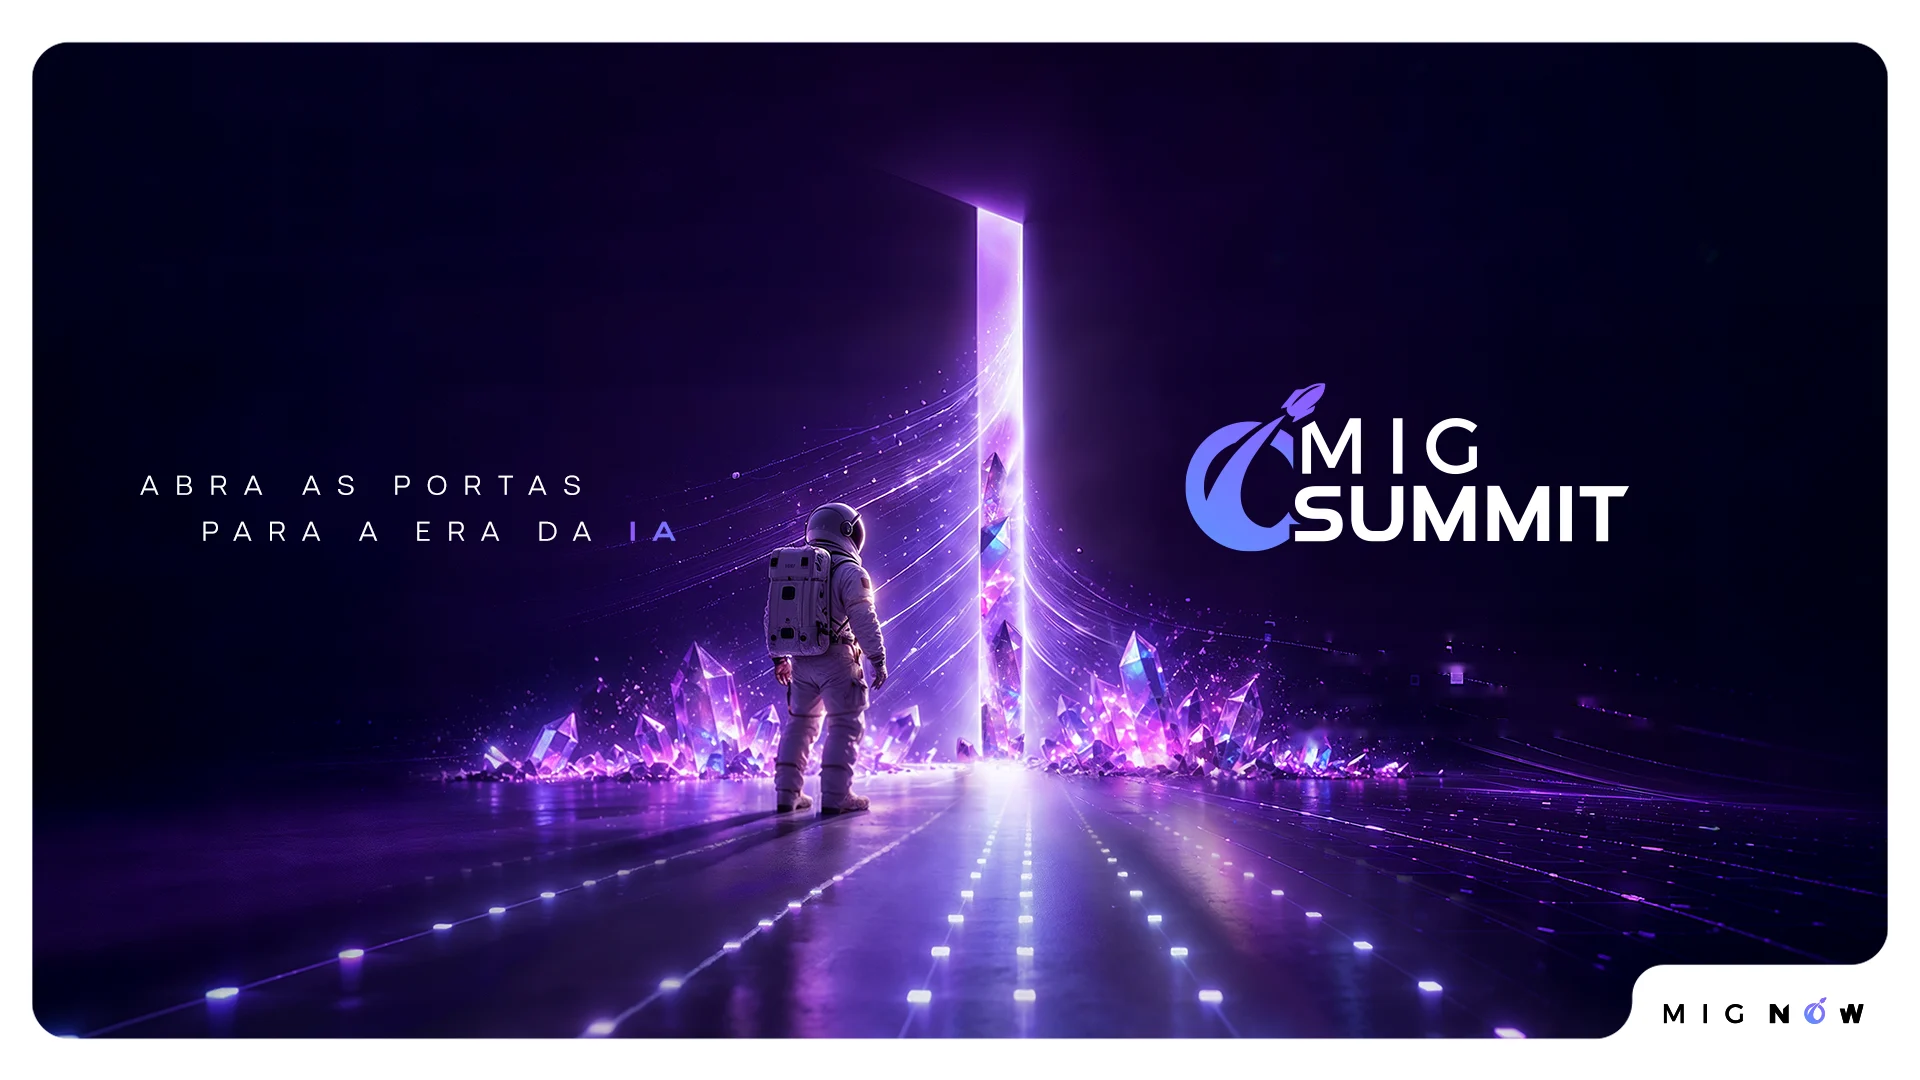
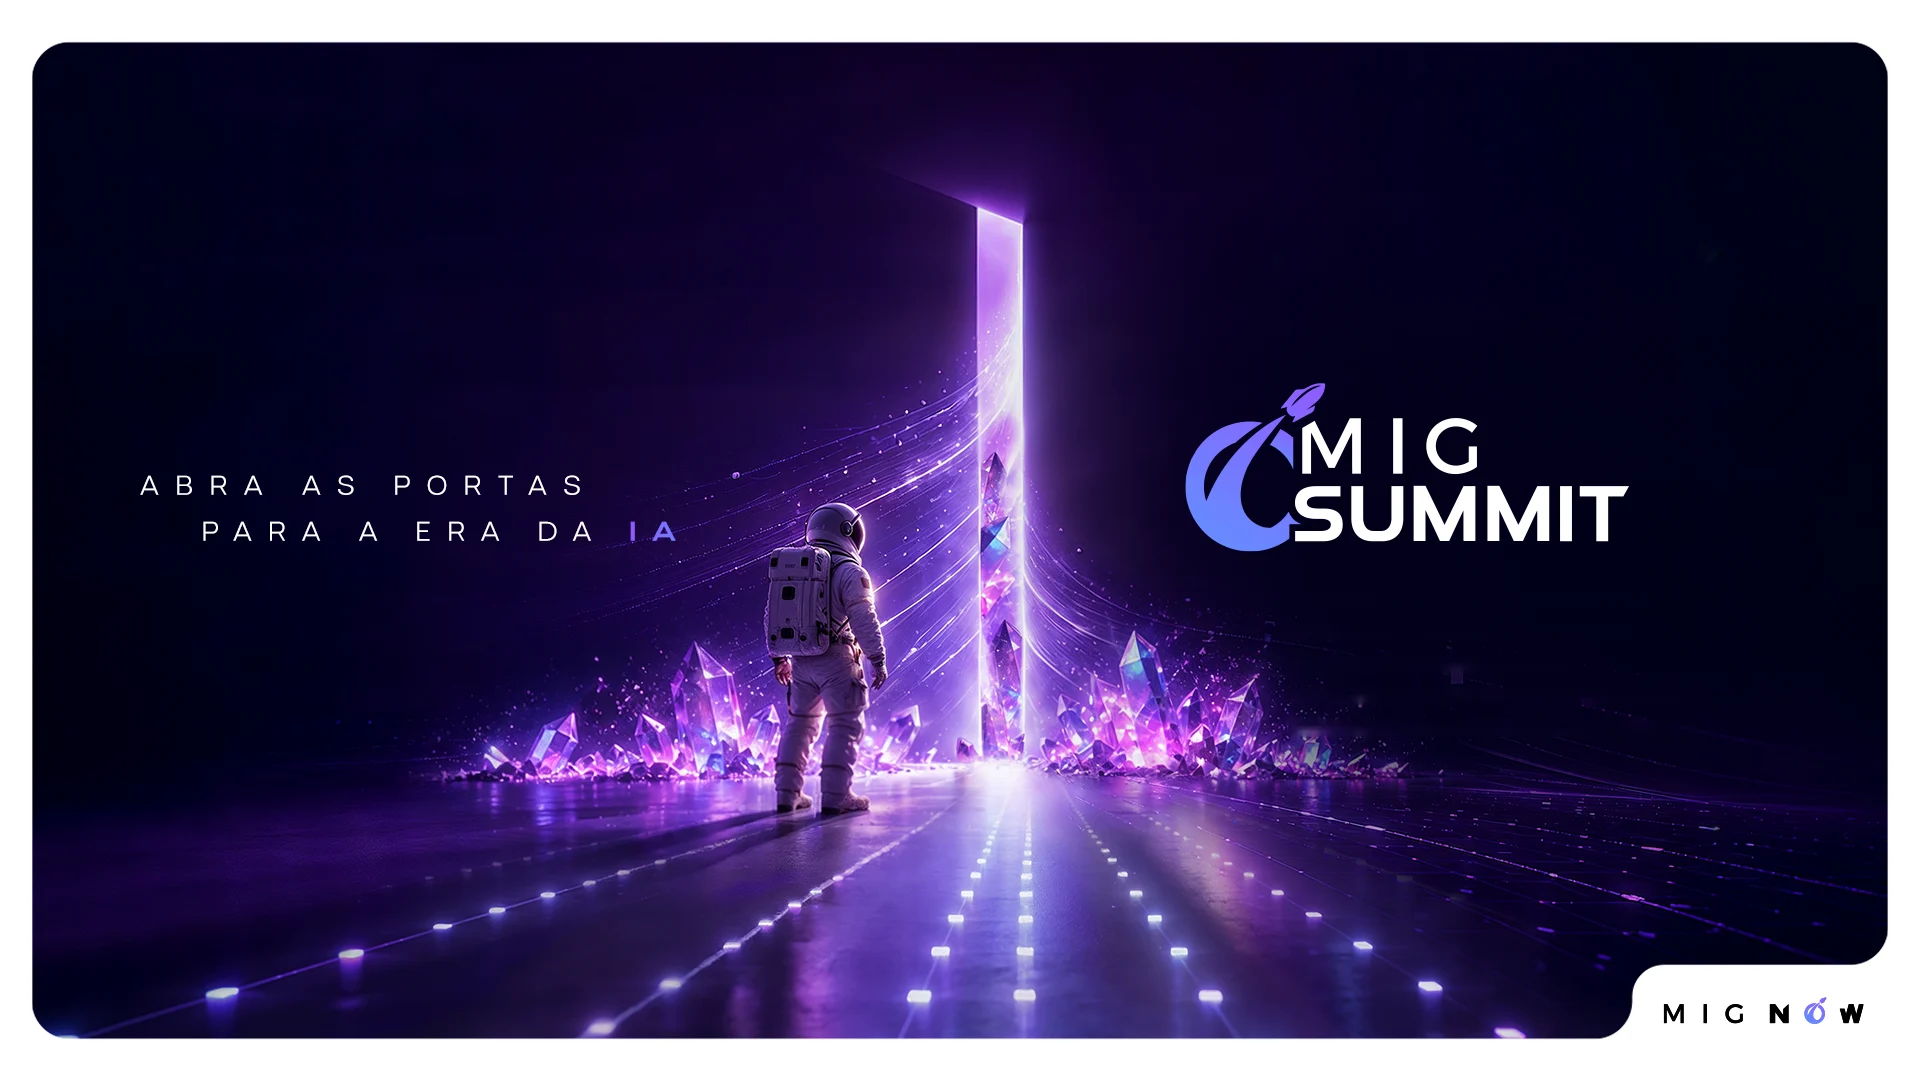
Mobile: abertura compacta e centralizada; KV corrigido
- Banner mobile centralizado (logo, frase, texto, data/contagem e CTA) com
  imagem mais compacta; formulário logo em seguida.
- Barra fixa só aparece depois do banner.
- KV com a metade direita escurecida (versão corrigida no Photoshop).
- Versão dos assets: 2026.10.14-7.

Claude-Session: https://claude.ai/code/session_01AMSrtvrY6Fw4PFgawtPhTF

Changed region(s): [[0.5312, 0.55, 0.875, 0.7944], [0.8125, 0.6417, 0.8438, 0.6722], [0.75, 0.6111, 0.7812, 0.6417]]

diff --git a/index.html b/index.html
@@ -8,12 +8,12 @@
 <meta name="description" content="Explore as possibilidades da IA no ambiente SAP. O MIGSummit, iniciativa da MIGNOW, aproxima a discussão sobre Inteligência Artificial da realidade das empresas que utilizam SAP, com foco em aplicações reais.">
 <meta property="og:title" content="MIGSummit | IA aplicada ao ambiente SAP">
 <meta property="og:description" content="Explore as possibilidades da IA no ambiente SAP. O MIGSummit, iniciativa da MIGNOW, aproxima a discussão sobre Inteligência Artificial da realidade das empresas que utilizam SAP, com foco em aplicações reais.">
-<meta property="og:image" content="assets/img/og-migsummit.jpg?v=2026.10.14-4">
+<meta property="og:image" content="assets/img/og-migsummit.jpg?v=2026.10.14-7">
 <meta property="og:type" content="website">
 <meta name="twitter:card" content="summary_large_image">
-<link rel="preload" as="image" href="assets/img/kv-mobile.webp?v=2026.10.14-4" media="(max-width: 767px)">
-<link rel="preload" as="image" href="assets/img/kv-full.webp?v=2026.10.14-4" imagesrcset="assets/img/kv-full-1200.webp?v=2026.10.14-4 1200w, assets/img/kv-full.webp?v=2026.10.14-4 1920w" imagesizes="100vw" media="(min-width: 768px)">
-<link rel="stylesheet" href="css/migsummit.css?v=2026.10.14-4">
+<link rel="preload" as="image" href="assets/img/kv-mobile.webp?v=2026.10.14-7" media="(max-width: 767px)">
+<link rel="preload" as="image" href="assets/img/kv-full.webp?v=2026.10.14-7" imagesrcset="assets/img/kv-full-1200.webp?v=2026.10.14-7 1200w, assets/img/kv-full.webp?v=2026.10.14-7 1920w" imagesizes="100vw" media="(min-width: 768px)">
+<link rel="stylesheet" href="css/migsummit.css?v=2026.10.14-7">
 </head>
 <body>
 <a class="skip" href="#conteudo">Pular para o conteúdo</a>
@@ -22,8 +22,8 @@
 <header class="navbar" id="navbar" data-theme="light">
   <div class="container navbar__row">
     <a class="navbar__brand" href="#topo" aria-label="MIGSummit, início da página">
-      <span class="brand-lockup"><img src="assets/img/logo-migsummit.png?v=2026.10.14-4" alt="MIGSummit" width="409" height="154"></span>
-      <span class="navbar__by">Realização <img src="assets/img/logo-mignow.png?v=2026.10.14-4" alt="MIGNOW" width="216" height="30"></span>
+      <span class="brand-lockup"><img src="assets/img/logo-migsummit.png?v=2026.10.14-7" alt="MIGSummit" width="409" height="154"></span>
+      <span class="navbar__by">Realização <img src="assets/img/logo-mignow.png?v=2026.10.14-7" alt="MIGNOW" width="216" height="30"></span>
     </a>
     <nav class="navbar__links" aria-label="Principal">
       <a href="#sobre">Sobre o evento</a>
@@ -60,20 +60,24 @@
   <section class="hero" id="topo" data-theme="light" aria-labelledby="hero-title">
     <div class="kv">
       <picture>
-        <source media="(max-width: 767px)" srcset="assets/img/kv-mobile.webp?v=2026.10.14-4" width="680" height="970">
-        <img class="kv__img" src="assets/img/kv-full.webp?v=2026.10.14-4" srcset="assets/img/kv-full-1200.webp?v=2026.10.14-4 1200w, assets/img/kv-full.webp?v=2026.10.14-4 1920w" sizes="100vw" width="1920" height="1080" fetchpriority="high"
+        <source media="(max-width: 767px)" srcset="assets/img/kv-mobile.webp?v=2026.10.14-7" width="680" height="680">
+        <img class="kv__img" src="assets/img/kv-full.webp?v=2026.10.14-7" srcset="assets/img/kv-full-1200.webp?v=2026.10.14-7 1200w, assets/img/kv-full.webp?v=2026.10.14-7 1920w" sizes="100vw" width="1920" height="1080" fetchpriority="high"
            alt="Abra as portas para a era da IA. MIGSummit, uma iniciativa MIGNOW. Astronauta diante de uma porta de luz violeta, entre cristais e um caminho iluminado.">
       </picture>
       <div class="kv__copy">
-        <img class="kv__logo" src="assets/img/logo-migsummit-white.png?v=2026.10.14-4" alt="MIGSummit" width="409" height="154">
+        <img class="kv__logo" src="assets/img/logo-migsummit-white.png?v=2026.10.14-7" alt="MIGSummit" width="409" height="154">
         <h1 class="kv__tagline" id="hero-title">Abra as portas<br> para a era da <span>IA</span></h1>
         <p class="hero__title">Descubra como a Inteligência Artificial está abrindo novas possibilidades no ambiente SAP. Uma jornada de conhecimento, inovação e aplicações reais para os próximos ciclos de transformação.</p>
+        <ul class="kv__chips" aria-label="Data, horário e contagem regressiva">
+          <li><svg viewBox="0 0 24 24" fill="none" stroke="currentColor" stroke-width="1.8" stroke-linecap="round" aria-hidden="true"><rect x="3.5" y="5" width="17" height="15" rx="2.5"/><path d="M3.5 10h17M8 3v4M16 3v4"/></svg>11 nov · 14h às 18h</li>
+          <li class="kv__chip-count" data-countdown><span data-cd-label>Faltam</span> <strong data-cd-num>28</strong> <span data-cd-unit>dias</span></li>
+        </ul>
         <a class="btn-pill is-primary" href="#inscricao" data-cta="hero">
           <span class="btn-pill__inner"><span class="btn-pill__text" data-cta-label>Quero participar</span></span>
           <span class="btn-pill__icon" aria-hidden="true"><span class="btn-pill__circle" data-circle="1"></span><svg viewBox="0 0 24 24" fill="none" stroke="currentColor" stroke-width="2" stroke-linecap="round" stroke-linejoin="round"><path d="M5 12h14M13 6l6 6-6 6"/></svg></span>
         </a>
       </div>
-      <div class="kv__sig"><img src="assets/img/logo-mignow.png?v=2026.10.14-4" alt="Uma iniciativa MIGNOW" width="216" height="30"></div>
+      <div class="kv__sig"><img src="assets/img/logo-mignow.png?v=2026.10.14-7" alt="Uma iniciativa MIGNOW" width="216" height="30"></div>
     </div>
   </section>
 
@@ -238,7 +242,7 @@
   <!-- MENSAGEM CENTRAL (texto do cliente) -->
   <section class="section message" data-theme="light" aria-label="Mensagem central">
     <div class="container message__grid">
-      <figure class="message__visual" aria-hidden="true"><img src="assets/img/crystal.webp?v=2026.10.14-4" alt="" width="549" height="900" loading="lazy"></figure>
+      <figure class="message__visual" aria-hidden="true"><img src="assets/img/crystal.webp?v=2026.10.14-7" alt="" width="549" height="900" loading="lazy"></figure>
       <div class="message__inner">
       <blockquote class="message__quote reveal">
         <p>O valor da IA vai além de incorporá-la ao ambiente SAP. Está em <em>criar as condições para que ela gere impacto real</em>, sem simplesmente adicionar novas camadas de complexidade.</p>
@@ -259,21 +263,21 @@
 </main>
 
 <div class="sticky-cta" id="stickyCta" aria-hidden="true">
-  <span class="sticky-cta__label"><img src="assets/img/logo-migsummit.png?v=2026.10.14-4" alt="" width="409" height="154"></span>
+  <span class="sticky-cta__label"><img src="assets/img/logo-migsummit.png?v=2026.10.14-7" alt="" width="409" height="154"></span>
   <a class="btn-pill is-primary is-sm" href="#inscricao" tabindex="-1" data-cta="sticky_mobile"><span class="btn-pill__inner"><span class="btn-pill__text" data-cta-label>Quero participar</span></span><span class="btn-pill__icon" aria-hidden="true"><span class="btn-pill__circle" data-circle="1"></span><svg viewBox="0 0 24 24" fill="none" stroke="currentColor" stroke-width="2" stroke-linecap="round" stroke-linejoin="round"><path d="M5 12h14M13 6l6 6-6 6"/></svg></span></a>
 </div>
 
 <footer class="footer" data-theme="light">
   <div class="container footer__row">
     <div class="footer__brand">
-      <span class="brand-lockup" style="--brand-height:1.75rem"><img src="assets/img/logo-migsummit.png?v=2026.10.14-4" alt="MIGSummit" width="409" height="154" loading="lazy"></span>
-      <span class="footer__by">Realização <img src="assets/img/logo-mignow.png?v=2026.10.14-4" alt="MIGNOW" width="216" height="30" loading="lazy"></span>
+      <span class="brand-lockup" style="--brand-height:1.75rem"><img src="assets/img/logo-migsummit.png?v=2026.10.14-7" alt="MIGSummit" width="409" height="154" loading="lazy"></span>
+      <span class="footer__by">Realização <img src="assets/img/logo-mignow.png?v=2026.10.14-7" alt="MIGNOW" width="216" height="30" loading="lazy"></span>
     </div>
     <nav class="footer__links" id="footerLinks" aria-label="Rodapé"></nav>
     <span>© <span id="year">2026</span> MIGNOW</span>
   </div>
 </footer>
 
-<script src="js/migsummit.js?v=2026.10.14-4" defer></script>
+<script src="js/migsummit.js?v=2026.10.14-7" defer></script>
 </body>
 </html>

diff --git a/css/migsummit.css b/css/migsummit.css
@@ -519,3 +519,42 @@ a{ color:inherit; }
   .signup-top .lead{ display:none; }
   .signup-top__info{ gap:var(--space-5); }
 }
+
+/* --- abertura mobile compacta: logo e frase sobre o chão do KV, data e contagem no banner --- */
+.kv__chips{ display:none; }
+@media (max-width:767px){
+  .kv__img{ -webkit-mask-image:linear-gradient(to bottom, #000 55%, transparent 96%); mask-image:linear-gradient(to bottom, #000 55%, transparent 96%); }
+  .kv__copy{ margin-top:calc(-1 * clamp(8rem, 40vw, 11rem)); padding-bottom:calc(var(--space-12) + var(--space-2)); gap:var(--space-4); }
+  .kv__logo{ width:min(200px, 56vw); }
+  .kv__tagline{ font-size:clamp(.875rem, 4vw, 1.0625rem); letter-spacing:.28em; line-height:1.55; }
+  .hero__title{ font-size:var(--text-body-xs); line-height:1.6; color:rgba(255,255,255,.75); }
+  .kv__chips{ display:flex; flex-wrap:wrap; gap:var(--space-2); margin:var(--space-1) 0 0; padding:0; list-style:none; }
+  .kv__chips li{ display:inline-flex; align-items:center; gap:var(--space-2); height:2.25rem; padding-inline:var(--space-3); border-radius:var(--radius-full); background:rgba(255,255,255,.08); border:1px solid rgba(255,255,255,.18); font-size:var(--text-body-xs); font-weight:500; color:var(--color-white); }
+  .kv__chips svg{ width:1rem; height:1rem; color:var(--color-violet-300); }
+  .kv__chips strong{ font-size:1rem; background:linear-gradient(90deg, var(--color-violet-300), var(--color-blue)); -webkit-background-clip:text; background-clip:text; color:transparent; }
+  .kv__copy .btn-pill{ width:100%; }
+  /* formulário logo após o banner; o bloco de título/data/contagem repetido sai no celular */
+  .signup-top{ padding-top:var(--space-6); }
+  .signup-top__info{ display:none; }
+}
+@media (max-width:767px){
+  .kv__img{ aspect-ratio:680/860; object-position:50% 0; }
+  .kv__chips{ flex-wrap:nowrap; gap:var(--space-1-5, .375rem); }
+  .kv__chips li{ height:2.125rem; padding-inline:.625rem; font-size:.8125rem; gap:.375rem; white-space:nowrap; }
+}
+@media (max-width:370px){ .kv__chips{ flex-wrap:wrap; } }
+/* mobile: banner centralizado, como um pôster */
+@media (max-width:767px){
+  .kv__img{ aspect-ratio:680/760; object-position:50% 8%; }
+  .kv__copy{ align-items:center; text-align:center; padding-inline:var(--space-5); margin-top:calc(-1 * clamp(6rem, 30vw, 8.5rem)); }
+  .kv__logo{ margin-left:0; width:min(210px, 58vw); }
+  .kv__tagline{ text-align:center; padding-left:.28em; }
+  .hero__title{ max-width:34ch; text-wrap:balance; }
+  .kv__chips{ justify-content:center; }
+  .signup-top .panel__head{ text-align:center; align-items:center; }
+}
+@media (max-width:767px){
+  .kv__copy{ margin-top:calc(-1 * clamp(2.5rem, 13vw, 3.75rem)); }
+  .kv__img{ -webkit-mask-image:linear-gradient(to bottom, #000 70%, transparent 100%); mask-image:linear-gradient(to bottom, #000 70%, transparent 100%); }
+}
+@media (max-width:767px){ .kv__img{ aspect-ratio:680/680; object-position:50% 32%; } }

diff --git a/js/migsummit.js b/js/migsummit.js
@@ -259,7 +259,7 @@ form.addEventListener("submit", async e => {
 
 /* ---------- barra de CTA fixa no mobile ---------- */
 (function stickyCta(){
-  const bar = $("#stickyCta"), heroCta = $('[data-cta="hero"]'), signup = $("#inscricao");
+  const bar = $("#stickyCta"), heroCta = $(".hero"), signup = $("#inscricao");
   let heroVisible = true, signupVisible = false;
   const update = () => {
     const show = !heroVisible && !signupVisible;
@@ -317,17 +317,20 @@ if (matchMedia("(hover: hover) and (prefers-reduced-motion: no-preference)").mat
   const start = CONFIG.calendar && CONFIG.calendar.start ? new Date(CONFIG.calendar.start) : null;
   const end = CONFIG.calendar && CONFIG.calendar.end ? new Date(CONFIG.calendar.end) : null;
   const box = $("#countdown");
-  if (!start) { box.hidden = true; return; }
+  if (!start) { box.hidden = true; $$("[data-countdown]").forEach(el => el.hidden = true); return; }
   const update = () => {
     const now = new Date();
     // dias de calendário no horário de Brasília (UTC-3)
     const dayBR = d => Math.floor((d.getTime() - 3 * 3600e3) / 864e5);
     const days = dayBR(start) - dayBR(now);
-    if (end && now > end) { box.innerHTML = '<span class="eventbar__count-label">Evento realizado</span>'; return; }
-    if (days <= 0) { box.innerHTML = '<strong>É hoje</strong>'; return; }
+    if (end && now > end) { box.innerHTML = '<span class="eventbar__count-label">Evento realizado</span>'; $$("[data-countdown]").forEach(el => el.hidden = true); return; }
+    if (days <= 0) { box.innerHTML = '<strong>É hoje</strong>'; $$("[data-countdown]").forEach(el => el.innerHTML = '<strong>É hoje</strong>'); return; }
     $("#cdNum").textContent = days;
     $("#cdUnit").textContent = days === 1 ? "dia" : "dias";
     box.querySelector(".eventbar__count-label").textContent = days === 1 ? "Falta" : "Faltam";
+    $$("[data-cd-num]").forEach(el => el.textContent = days);
+    $$("[data-cd-unit]").forEach(el => el.textContent = days === 1 ? "dia" : "dias");
+    $$("[data-cd-label]").forEach(el => el.textContent = days === 1 ? "Falta" : "Faltam");
   };
   update();
   setInterval(update, 60 * 60 * 1000);
